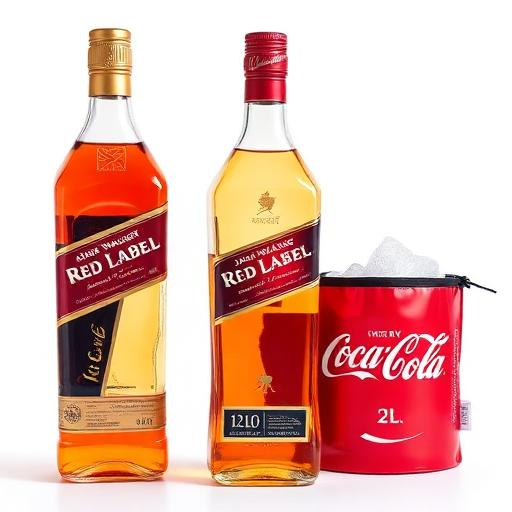
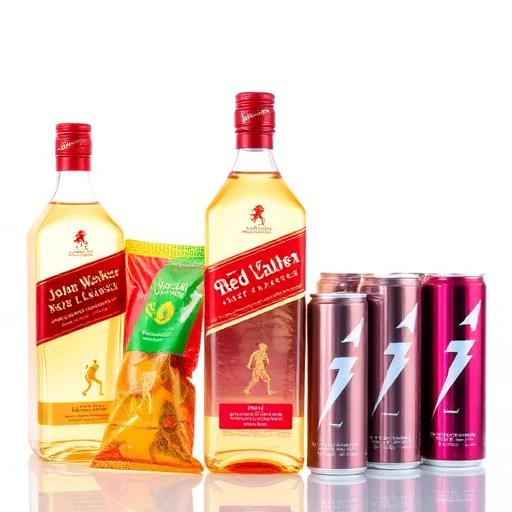
Changes

diff --git a/src/data/products.ts b/src/data/products.ts
@@ -28,13 +28,17 @@ import tanquerayImg from "@/assets/products/tanqueray.jpg";
 import geloLimaoImg from "@/assets/products/gelo-limao.jpg";
 import geloMorangoImg from "@/assets/products/gelo-morango.jpg";
 import geloMaracujaImg from "@/assets/products/gelo-maracuja.jpg";
-import comboCervejaImg from "@/assets/products/combo-cerveja.jpg";
-import comboDestiladoImg from "@/assets/products/combo-destilado.jpg";
-import comboVinhoImg from "@/assets/products/combo-vinho.jpg";
-import comboEnergiaImg from "@/assets/products/combo-energia.jpg";
-import comboWhiskyImg from "@/assets/products/combo-whisky.jpg";
+import comboTanquerayImg from "@/assets/products/combo-tanqueray.jpg";
+import comboAbsolutImg from "@/assets/products/combo-absolut.jpg";
+import comboJackImg from "@/assets/products/combo-jack.jpg";
 import comboRedLabelImg from "@/assets/products/combo-red-label.jpg";
-import comboWhiskyDuploImg from "@/assets/products/combo-whisky-duplo.jpg";
+import comboBeefeaterImg from "@/assets/products/combo-beefeater.jpg";
+import comboGreyGooseImg from "@/assets/products/combo-grey-goose.jpg";
+import fardoHeinekenImg from "@/assets/products/fardo-heineken.jpg";
+import fardoBudweiserImg from "@/assets/products/fardo-budweiser.jpg";
+import fardoCoronaImg from "@/assets/products/fardo-corona.jpg";
+import fardoBrahmaImg from "@/assets/products/fardo-brahma.jpg";
+import fardoSkolImg from "@/assets/products/fardo-skol.jpg";
 import antarcticaImg from "@/assets/products/antarctica.jpg";
 import spatenImg from "@/assets/products/spaten.jpg";
 import originalImg from "@/assets/products/original.jpg";
@@ -334,66 +338,102 @@ export const products: Product[] = [
   },
   {
     id: 31,
-    name: "Combo Churrasco 🍺",
-    description: "6 Heineken 600ml + 1 Gelo 3kg — economize R$12!",
-    price: 41.90,
-    image: comboCervejaImg,
+    name: "Combo Tanqueray 🍸",
+    description: "1 Tanqueray 750ml + 4 gelos saborizados + 4 energéticos",
+    price: 89.90,
+    image: comboTanquerayImg,
     category: "combos",
-    tag: "Economia",
+    tag: "60% OFF",
   },
   {
     id: 32,
-    name: "Combo Festa 🎉",
-    description: "1 Absolut 750ml + 1 Coca 2L + 1 Gelo 3kg",
-    price: 79.90,
-    image: comboDestiladoImg,
+    name: "Combo Absolut 🍸",
+    description: "1 Absolut 750ml + 4 gelos saborizados + 4 energéticos",
+    price: 69.90,
+    image: comboAbsolutImg,
+    category: "combos",
+    tag: "50% OFF",
+  },
+  {
+    id: 33,
+    name: "Combo Jack Daniel's 🥃",
+    description: "1 Jack Daniel's 750ml + 4 gelos saborizados + 4 energéticos",
+    price: 127.50,
+    image: comboJackImg,
     category: "combos",
     tag: "Mais vendido",
   },
   {
-    id: 33,
-    name: "Combo Vinho & Queijo 🍷",
-    description: "1 Vinho Tinto + 1 Vinho Branco — noite especial",
-    price: 54.90,
-    image: comboVinhoImg,
+    id: 34,
+    name: "Combo Red Label 🥃",
+    description: "1 Red Label 1L + 4 gelos saborizados + 4 energéticos",
+    price: 99.90,
+    image: comboRedLabelImg,
+    category: "combos",
+    tag: "54% OFF",
+  },
+  {
+    id: 35,
+    name: "Combo Beefeater 🍸",
+    description: "1 Beefeater 750ml + 4 gelos saborizados + 4 energéticos",
+    price: 117.90,
+    image: comboBeefeaterImg,
+    category: "combos",
+    tag: "60% OFF",
+  },
+  {
+    id: 36,
+    name: "Combo Grey Goose 🍸",
+    description: "1 Grey Goose 750ml + 4 gelos saborizados + 4 energéticos",
+    price: 109.90,
+    image: comboGreyGooseImg,
     category: "combos",
     tag: "Premium",
   },
   {
-    id: 34,
-    name: "Combo Energia Total ⚡",
-    description: "2 Red Bull 250ml + 2 Monster 473ml",
-    price: 34.90,
-    image: comboEnergiaImg,
+    id: 37,
+    name: "Fardo Heineken 12un 474ml",
+    description: "Fardo com 12 latas de Heineken 474ml",
+    price: 35.90,
+    image: fardoHeinekenImg,
     category: "combos",
     tag: "Economia",
   },
   {
-    id: 35,
-    name: "Combo Whisky Night 🥃",
-    description: "1 Jack Daniel's 750ml + 2 Red Bull 250ml + 1 Gelo 3kg",
-    price: 129.90,
-    image: comboWhiskyImg,
+    id: 57,
+    name: "Fardo Budweiser 12un 474ml",
+    description: "Fardo com 12 latas de Budweiser 474ml",
+    price: 20.90,
+    image: fardoBudweiserImg,
+    category: "combos",
+    tag: "Economia",
+  },
+  {
+    id: 58,
+    name: "Fardo Corona 24un 330ml",
+    description: "Fardo com 24 garrafas de Corona Extra 330ml",
+    price: 45.90,
+    image: fardoCoronaImg,
     category: "combos",
     tag: "Premium",
   },
   {
-    id: 36,
-    name: "Combo Red Label & Cola 🥃",
-    description: "1 Red Label 750ml + 1 Coca-Cola 2L + 1 Gelo 3kg",
-    price: 99.90,
-    image: comboRedLabelImg,
+    id: 59,
+    name: "Fardo Brahma 12un 350ml",
+    description: "Fardo com 12 latas de Brahma 350ml",
+    price: 33.90,
+    image: fardoBrahmaImg,
     category: "combos",
-    tag: "Mais vendido",
+    tag: "Economia",
   },
   {
-    id: 37,
-    name: "Combo Whisky Duplo VIP 🔥",
-    description: "1 Jack Daniel's + 1 Red Label + 4 energéticos + Gelo",
-    price: 219.90,
-    image: comboWhiskyDuploImg,
+    id: 60,
+    name: "Fardo Skol 12un 350ml",
+    description: "Fardo com 12 latas de Skol 350ml",
+    price: 22.90,
+    image: fardoSkolImg,
     category: "combos",
-    tag: "Premium",
+    tag: "Economia",
   },
   // Cervejas populares que faltavam
   {
